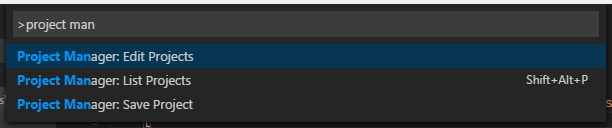
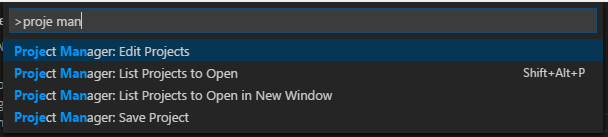
Closes #45

diff --git a/extension.ts b/extension.ts
@@ -20,8 +20,15 @@ export function activate(context: vscode.ExtensionContext) {
     let aStack: stack.StringStack = new stack.StringStack();
     aStack.fromString(projectsStored);
     
-    // Save the Projects
-    vscode.commands.registerCommand('projectManager.saveProject', () => {
+    // register commands
+    vscode.commands.registerCommand('projectManager.saveProject', () => saveProject());
+    vscode.commands.registerCommand('projectManager.listProjects', () => listProjects(false));
+    vscode.commands.registerCommand('projectManager.listProjectsNewWindow', () => listProjects(true));
+    vscode.commands.registerCommand('projectManager.editProjects', () => editProjects());
+    
+    // function commands
+    
+    function saveProject() {
         // The code you place here will be executed every time your command is executed
 
         // Display a message box to the user
@@ -115,30 +122,10 @@ export function activate(context: vscode.ExtensionContext) {
         });
 
 
-    });
+    };
+      
     
-    function removeRootPath(items:any[]): any[] {
-        if (!vscode.workspace.rootPath) {
-            return items;
-        } else {
-            return items.filter(value => value.description.toString().toLowerCase() != vscode.workspace.rootPath.toLowerCase());
-        }
-    }
-    
-    function indicateInvalidPaths(items:any[]): any[] {
-        for (var index = 0; index < items.length; index++) {
-            var element = items[index];
-            
-            if (!fs.existsSync(element.description.toString()) ) {
-                items[index].detail = '$(circle-slash) Path does not exist';
-            }
-        }
-        
-        return items;
-    }
-    
-    // List the Projects and allow the user to pick (select) one of them to activate
-    vscode.commands.registerCommand('projectManager.listProjects', () => {
+    function listProjects(forceNewWindow: boolean) {
         let items = [];
         let itemsToShow = [];
         
@@ -215,20 +202,18 @@ export function activate(context: vscode.ExtensionContext) {
                 // update MRU               
                 aStack.push(selection.label);
                 context.globalState.update('recent', aStack.toString()); 
-                //console.log(aStack.toString());
 
                 let openInNewWindow: boolean = vscode.workspace.getConfiguration('projectManager').get('openInNewWindow', true);
                 let uri: vscode.Uri = vscode.Uri.file(projectPath); 
-                vscode.commands.executeCommand('vscode.openFolder', uri, openInNewWindow) 
+                vscode.commands.executeCommand('vscode.openFolder', uri, openInNewWindow || forceNewWindow) 
                     .then(
                         value => ( {} ),  //done 
                         value => vscode.window.showInformationMessage('Could not open the project!') ); 
             }
         });
-    });
-
-
-    vscode.commands.registerCommand('projectManager.editProjects', () => {
+    };
+    
+    function editProjects() {
         if (fs.existsSync(getProjectFilePath())) {
             vscode.workspace.openTextDocument(getProjectFilePath()).then(doc => {
                 vscode.window.showTextDocument(doc);
@@ -236,7 +221,7 @@ export function activate(context: vscode.ExtensionContext) {
         } else {
             vscode.window.showInformationMessage('No projects saved yet!');
         }
-    });
+    };
 
 
     function getSortedByName(items: any[]): any[] {
@@ -298,6 +283,27 @@ export function activate(context: vscode.ExtensionContext) {
         
         return loadedProjects;
     }
+    
+    function removeRootPath(items:any[]): any[] {
+        if (!vscode.workspace.rootPath) {
+            return items;
+        } else {
+            return items.filter(value => value.description.toString().toLowerCase() != vscode.workspace.rootPath.toLowerCase());
+        }
+    }
+    
+    function indicateInvalidPaths(items:any[]): any[] {
+        for (var index = 0; index < items.length; index++) {
+            var element = items[index];
+            
+            if (!fs.existsSync(element.description.toString()) ) {
+                items[index].detail = '$(circle-slash) Path does not exist';
+            }
+        }
+        
+        return items;
+    }
+    
     
     function pathIsUNC(path:string) {
       return path.indexOf('\\\\') == 0;

diff --git a/README.md b/README.md
@@ -11,7 +11,8 @@ Press `F1` in VSCode, type `ext install` and then look for `Project Manager`.
 ## Available commands
 
 * **Project Manager: Edit Project** Edit the project list (`projects.json` file) directly inside **Code**
-* **Project Manager: List Projects** List all saved projects and pick one
+* **Project Manager: List Projects to Open** List all saved projects and pick one
+* **Project Manager: List Projects to Open in New Window** List all saved projects and pick one to be opened in New Window
 * **Project Manager: Save Project** Save the current project in the manager
 
 ![Commands](images/project-manager-commands.png)
@@ -52,6 +53,14 @@ If you sync your projects between different machines, you can now use a special 
 
 ![Corrupted](images/project-manager-edit-corrupted-projectsJson.png)
 
+### List Projects to Open
+
+Shows your projects and select one to open. Depending on `projectManager.openInNewWindow` setting, it will replace the current VS Code instance, or open a new one.
+
+### List Projects to Open in New Window
+
+Just like **List Projects** but always opening in New Window.
+
 ## Available settings
 
 #### Sort the Project List
@@ -87,6 +96,12 @@ Indicates an alternative location where the `projects.json` file is stored. Usef
 ```
 
 # Changelog
+
+## Version 0.10.0
+
+* **New Command:** List Projects to Open in New Window
+* **Renamed Command:** List Projects to Open
+* **New:** Comment for `sortList` setting now shows available options (issue [#53](https://github.com/alefragnani/vscode-project-manager/issues/52))
 
 ## Version 0.9.2
 
